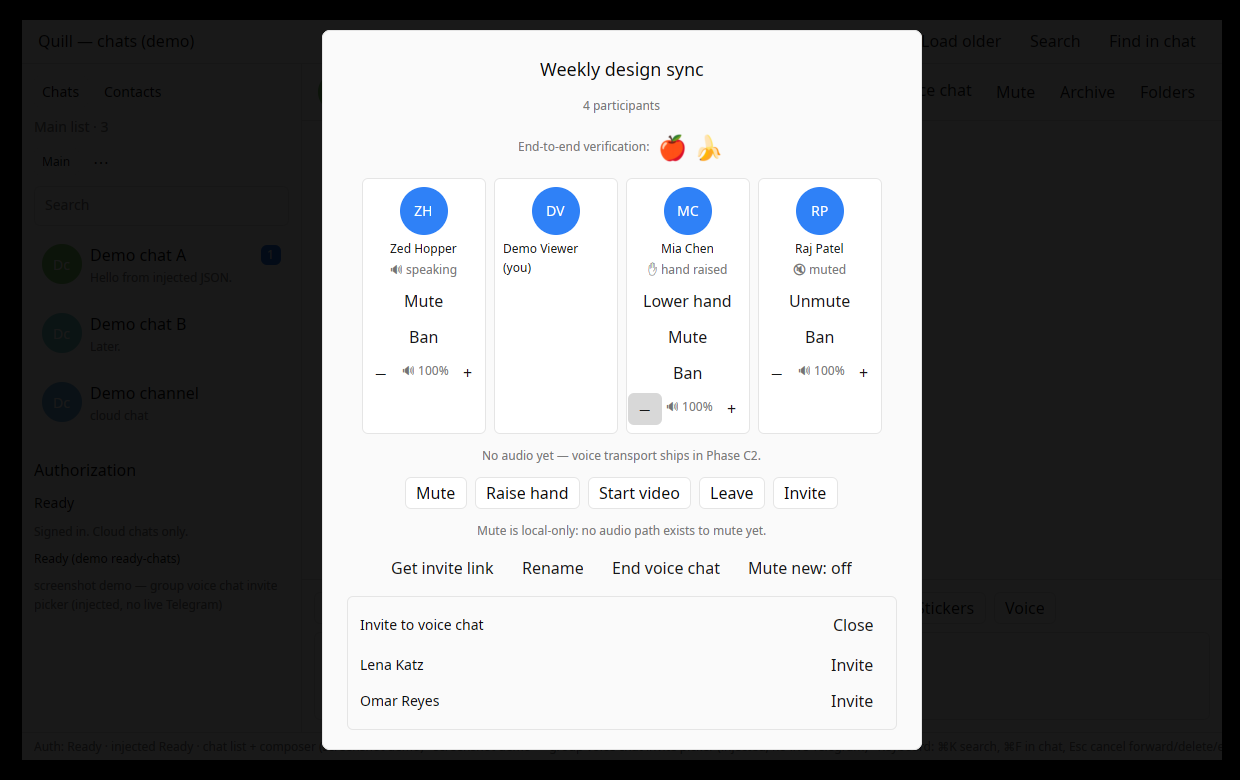
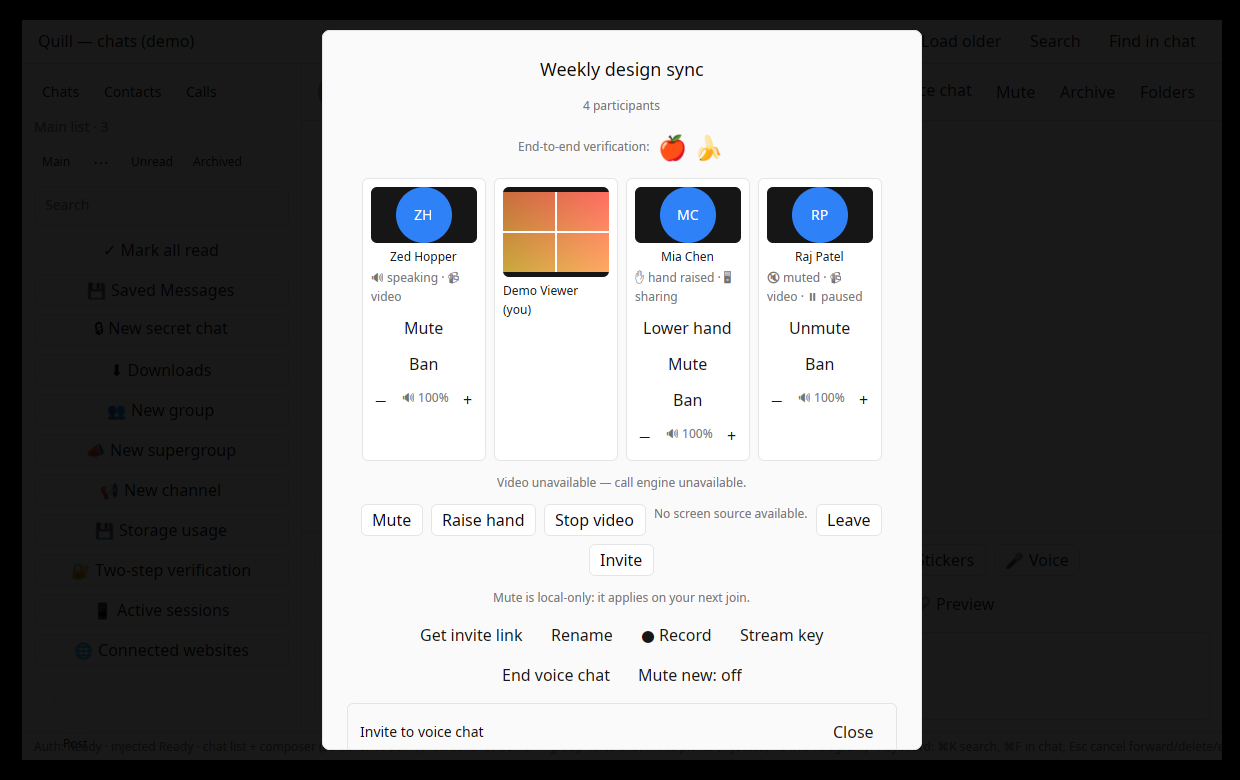
calls-group-self-tile: local camera self tile in group calls
Engine: frames_trampoline group branch now delivers CAPTURE+CAMERA
frames as is_local (was: dropped) — ntgcalls v3.0.0 emits capture
frames per connection (ntgcalls.cpp:126; stream_manager emits device
captures to the callback), so the local preview was always available.

Driver: no routing change (participant-less frames already land in
(call id, is_local) slots); teardown_group_call_transport and the
pump backstop now clear those slots on group-call end.

UI: group_self_tile_content renders the self participant's tile —
live preview when is_my_video_enabled + frame retained, 'Starting
camera...' when enabled without a frame, initials avatar when off;
self tile shows the local is_muted_self mute badge.

Tests: group_local_frame_routes_to_shared_local_slot,
group_call_leave_clears_local_frame_slot. Demo fixture camera on +
demo_local_frame; screenshots regenerated.

README: parity:calls-group-video-self checked (code + demo only,
live unverified).

diff --git a/src/ui/mod.rs b/src/ui/mod.rs
@@ -4893,6 +4893,9 @@ impl QuillApp {
                 // the demo tiles (camera for Zed, screen share for Mia).
                 // Injected demo data, not real media.
                 app.demo_group_frames = demo_group_video_frames();
+                // Slice calls-group-self-tile: the self tile renders the
+                // local camera preview (fixture camera is on).
+                app.demo_local_frame = Some(demo_video_frame(true));
             }
             app.status_note =
                 "screenshot demo — group voice chat (injected, no live Telegram)".into();
@@ -4901,6 +4904,9 @@ impl QuillApp {
             if let Some(session) = app.demo_session.as_mut() {
                 app.demo_seq.store(session.last_seq, Ordering::SeqCst);
                 apply_ready_group_call_invite(session, &app.demo_sink, &app.demo_seq);
+                // Slice calls-group-self-tile: fixture camera is on —
+                // the self tile behind the panel renders the preview.
+                app.demo_local_frame = Some(demo_video_frame(true));
             }
             app.group_call_invite_open = true;
             app.status_note =
@@ -22788,7 +22794,13 @@ impl QuillApp {
         if participant.is_speaking {
             badges.push("🔊 speaking".to_string());
         }
-        if participant.is_muted_for_all_users || participant.is_muted_for_current_user {
+        if participant.is_muted_for_all_users
+            || participant.is_muted_for_current_user
+            || (participant.is_current_user && call.is_muted_self)
+        {
+            // Slice calls-group-self-tile: the self tile shows the LOCAL
+            // mute state (`is_muted_self`), which the participant flags
+            // alone don't reliably carry for the current user.
             badges.push("🔇 muted".to_string());
         }
         if participant.is_hand_raised {
@@ -22812,19 +22824,25 @@ impl QuillApp {
         }
         // Phase C2g: live video tile when a frame is retained for this
         // participant (camera, or screen share preferred when sharing);
-        // the avatar placeholder stays for everyone else.
-        let video_or_avatar: AnyElement = match self.group_participant_frame(call.id, participant) {
-            Some((user_id, screen, frame)) => {
-                match self.cached_group_video_image(call.id, user_id, screen, &frame) {
-                    Some(image) => img(ImageSource::from(image))
-                        .w_full()
-                        .h(px(90.))
-                        .object_fit(ObjectFit::Contain)
-                        .into_any_element(),
-                    None => div().child(initials_avatar(&name, 56.)).into_any_element(),
+        // the avatar placeholder stays for everyone else. Slice
+        // calls-group-self-tile: the current user's tile renders the
+        // local camera preview from the driver's group-local slot.
+        let video_or_avatar: AnyElement = if participant.is_current_user {
+            self.group_self_tile_content(call, participant, &name)
+        } else {
+            match self.group_participant_frame(call.id, participant) {
+                Some((user_id, screen, frame)) => {
+                    match self.cached_group_video_image(call.id, user_id, screen, &frame) {
+                        Some(image) => img(ImageSource::from(image))
+                            .w_full()
+                            .h(px(90.))
+                            .object_fit(ObjectFit::Contain)
+                            .into_any_element(),
+                        None => div().child(initials_avatar(&name, 56.)).into_any_element(),
+                    }
                 }
+                None => div().child(initials_avatar(&name, 56.)).into_any_element(),
             }
-            None => div().child(initials_avatar(&name, 56.)).into_any_element(),
         };
         let mut tile = div()
             .w(px(124.))
@@ -22957,6 +22975,57 @@ impl QuillApp {
             );
         }
         tile
+    }
+
+    /// Slice calls-group-self-tile: the current user's tile content in
+    /// the group grid. Camera on + a retained local frame → the live
+    /// local preview (decoded through the same per-participant cache as
+    /// the remote tiles); camera on with no frame yet → "Starting
+    /// camera…"; camera off → the initials avatar, consistent with every
+    /// other tile. Live mode reads the driver's group-local slot (the
+    /// engine delivers group CAPTURE frames as `is_local` with no
+    /// participant); demo mode reuses the 1:1 local fixture frame.
+    fn group_self_tile_content(
+        &mut self,
+        call: &ActiveGroupCall,
+        participant: &ParsedGroupCallParticipant,
+        name: &str,
+    ) -> AnyElement {
+        let frame = if let Some(live) = self.live.as_ref() {
+            live.driver.latest_video_frame(call.id, true)
+        } else {
+            self.demo_local_frame.clone()
+        };
+        let MessageSender::User { user_id } = participant.participant_id else {
+            return div().child(initials_avatar(name, 56.)).into_any_element();
+        };
+        match (call.is_my_video_enabled, frame.as_ref()) {
+            (true, Some(frame)) => {
+                match self.cached_group_video_image(call.id, user_id, false, frame) {
+                    Some(image) => img(ImageSource::from(image))
+                        .w_full()
+                        .h(px(90.))
+                        .object_fit(ObjectFit::Contain)
+                        .into_any_element(),
+                    None => div().child(initials_avatar(name, 56.)).into_any_element(),
+                }
+            }
+            (true, None) => div()
+                .flex()
+                .flex_col()
+                .items_center()
+                .justify_center()
+                .gap_1()
+                .child(div().text_2xl().child("📹"))
+                .child(
+                    div()
+                        .text_xs()
+                        .text_color(rgb(0x9a9a9a))
+                        .child("Starting camera…"),
+                )
+                .into_any_element(),
+            (false, _) => div().child(initials_avatar(name, 56.)).into_any_element(),
+        }
     }
 
     fn group_call_card(
@@ -39090,7 +39159,7 @@ fn apply_ready_group_call(session: &mut Session, sink: &Arc<MemorySink>, seq: &A
             r#"{{"@type":"updateChatVideoChat","chat_id":{chat_id},"video_chat":{{"@type":"videoChat","group_call_id":{call_id},"has_participants":true,"default_participant_id":null}}}}"#
         ),
         format!(
-            r#"{{"@type":"updateGroupCall","group_call":{{"@type":"groupCall","id":{call_id},"unique_id":"999","title":"Weekly design sync","invite_link":"","paid_message_star_count":0,"scheduled_start_date":0,"enabled_start_notification":false,"is_active":true,"is_video_chat":true,"is_live_story":false,"is_rtmp_stream":false,"is_joined":true,"need_rejoin":false,"is_owned":true,"can_be_managed":true,"participant_count":4,"has_hidden_listeners":false,"loaded_all_participants":true,"message_sender_id":null,"recent_speakers":[{{"@type":"groupCallRecentSpeaker","participant_id":{{"@type":"messageSenderUser","user_id":41}},"is_speaking":true}}],"is_my_video_enabled":false,"is_my_video_paused":false,"can_enable_video":true,"mute_new_participants":false,"can_toggle_mute_new_participants":true,"can_send_messages":true,"are_messages_allowed":true,"can_toggle_are_messages_allowed":false,"can_delete_messages":false,"record_duration":0,"is_video_recorded":false,"duration":0}}}}"#
+            r#"{{"@type":"updateGroupCall","group_call":{{"@type":"groupCall","id":{call_id},"unique_id":"999","title":"Weekly design sync","invite_link":"","paid_message_star_count":0,"scheduled_start_date":0,"enabled_start_notification":false,"is_active":true,"is_video_chat":true,"is_live_story":false,"is_rtmp_stream":false,"is_joined":true,"need_rejoin":false,"is_owned":true,"can_be_managed":true,"participant_count":4,"has_hidden_listeners":false,"loaded_all_participants":true,"message_sender_id":null,"recent_speakers":[{{"@type":"groupCallRecentSpeaker","participant_id":{{"@type":"messageSenderUser","user_id":41}},"is_speaking":true}}],"is_my_video_enabled":true,"is_my_video_paused":false,"can_enable_video":true,"mute_new_participants":false,"can_toggle_mute_new_participants":true,"can_send_messages":true,"are_messages_allowed":true,"can_toggle_are_messages_allowed":false,"can_delete_messages":false,"record_duration":0,"is_video_recorded":false,"duration":0}}}}"#
         ),
         participant(777, r#","is_current_user":true"#, "a4", "null", "null"),
         participant(

diff --git a/src/connect.rs b/src/connect.rs
@@ -1594,6 +1594,13 @@ impl<S: JsonSender> ConnectDriver<S> {
                 .lock()
                 .expect("group video frame slots")
                 .retain(|(slot_call_id, _, _), _| *slot_call_id != before_id);
+            // Slice calls-group-self-tile: the self tile lives in the
+            // shared (call id, is_local) slots — clear it too so a stale
+            // local preview can't render after the call ends.
+            self.video_frame_slots
+                .lock()
+                .expect("call video frame slots")
+                .retain(|(slot_call_id, _), _| *slot_call_id != before_id);
             self.group_camera_state.remove(&before_id);
         }
         let Some(group_call_id) = active_group_call_after else {
@@ -3374,6 +3381,12 @@ impl<S: JsonSender> ConnectDriver<S> {
             .lock()
             .expect("group video frame slots")
             .retain(|(slot_call_id, _, _), _| *slot_call_id != group_call_id);
+        // Slice calls-group-self-tile: the self tile lives in the
+        // shared (call id, is_local) slots — clear it too.
+        self.video_frame_slots
+            .lock()
+            .expect("call video frame slots")
+            .retain(|(slot_call_id, _), _| *slot_call_id != group_call_id);
         self.group_camera_state.remove(&group_call_id);
     }
 
@@ -20990,6 +21003,54 @@ mod tests {
         assert!(driver.latest_group_video_frame(555, 42, true).is_some());
         assert!(driver.latest_group_video_frame(555, 43, false).is_none());
         assert!(driver.latest_video_frame(555, false).is_none());
+        let _ = std::fs::remove_dir_all(&dir);
+    }
+
+    /// Slice calls-group-self-tile: a group-local frame (`is_local`,
+    /// no participant — what the engine now delivers for group
+    /// CAPTURE frames) lands in the shared (call id, is_local) slots,
+    /// never in the participant slots.
+    #[test]
+    fn group_local_frame_routes_to_shared_local_slot() {
+        let (dir, driver, _recorder, handle, _sink, _seq) = ready_group_call_driver();
+        handle.emit_video_frame(
+            555,
+            VideoFrame {
+                seq: 0,
+                width: 2,
+                height: 2,
+                rgba: vec![0u8; 16],
+                is_local: true,
+                participant_user_id: None,
+                is_screen: false,
+            },
+        );
+        assert!(driver.latest_video_frame(555, true).is_some());
+        assert!(driver.latest_video_frame(555, false).is_none());
+        assert!(driver.latest_group_video_frame(555, 42, false).is_none());
+        let _ = std::fs::remove_dir_all(&dir);
+    }
+
+    /// Slice calls-group-self-tile: leaving the group call clears the
+    /// self-tile slot along with the participant slots.
+    #[test]
+    fn group_call_leave_clears_local_frame_slot() {
+        let (dir, mut driver, _recorder, handle, _sink, _seq) = ready_group_call_driver();
+        handle.emit_video_frame(
+            555,
+            VideoFrame {
+                seq: 0,
+                width: 2,
+                height: 2,
+                rgba: vec![0u8; 16],
+                is_local: true,
+                participant_user_id: None,
+                is_screen: false,
+            },
+        );
+        assert!(driver.latest_video_frame(555, true).is_some());
+        driver.leave_group_call().expect("leave");
+        assert!(driver.latest_video_frame(555, true).is_none());
         let _ = std::fs::remove_dir_all(&dir);
     }
 

diff --git a/src/calls/engine.rs b/src/calls/engine.rs
@@ -2282,25 +2282,36 @@ unsafe extern "C" fn frames_trampoline(
         .copied()
     {
         // Screen frames arrive as PLAYBACK+SCREEN; camera as
-        // PLAYBACK+CAMERA.
-        let is_screen = device == NTG_STREAM_DEVICE_SCREEN;
-        if mode != NTG_STREAM_MODE_PLAYBACK || (!is_screen && device != NTG_STREAM_DEVICE_CAMERA) {
-            // Group capture (local preview) has no tile yet; drop rather
-            // than misattribute.
-            return;
+        // PLAYBACK+CAMERA. Slice calls-group-self-tile: the local
+        // camera preview arrives as CAPTURE+CAMERA keyed by the chat id
+        // (ntgcalls emits capture frames per connection — v3.0.0
+        // ntgcalls.cpp:126 wires on_frames for group connections too,
+        // and stream_manager emits device captures to the callback);
+        // it renders as the self tile instead of being dropped.
+        if mode == NTG_STREAM_MODE_CAPTURE && device == NTG_STREAM_DEVICE_CAMERA {
+            (group_call_id, None, true, false)
+        } else {
+            let is_screen = device == NTG_STREAM_DEVICE_SCREEN;
+            if mode != NTG_STREAM_MODE_PLAYBACK
+                || (!is_screen && device != NTG_STREAM_DEVICE_CAMERA)
+            {
+                // Screen-share capture preview has no tile yet; drop
+                // rather than misattribute.
+                return;
+            }
+            // SAFETY: frames_len > 0 was checked above.
+            let ssrc = unsafe { &*frames.add(frames_len - 1) }.ssrc as u32;
+            let Some(participant) = shared
+                .group_video_ssrc_to_user
+                .lock()
+                .expect("ntgcalls group ssrc map")
+                .get(&(user_id, ssrc))
+                .copied()
+            else {
+                return;
+            };
+            (group_call_id, Some(participant), false, is_screen)
         }
-        // SAFETY: frames_len > 0 was checked above.
-        let ssrc = unsafe { &*frames.add(frames_len - 1) }.ssrc as u32;
-        let Some(participant) = shared
-            .group_video_ssrc_to_user
-            .lock()
-            .expect("ntgcalls group ssrc map")
-            .get(&(user_id, ssrc))
-            .copied()
-        else {
-            return;
-        };
-        (group_call_id, Some(participant), false, is_screen)
     } else {
         let is_local = mode == NTG_STREAM_MODE_CAPTURE && device == NTG_STREAM_DEVICE_CAMERA;
         if !is_local && !(mode == NTG_STREAM_MODE_PLAYBACK && device == NTG_STREAM_DEVICE_CAMERA) {

diff --git a/DECISIONS.md b/DECISIONS.md
@@ -5419,3 +5419,27 @@ ntgcalls v3.0.0 prebuilt lib, bindings verified against
   correct timing only — the demo paints fine on a fresh Xvfb display
   with the lavapipe ICD (earlier black frames were captures taken
   after the demo's 5s quit timer).
+
+## Slice calls-group-self-tile — LOCAL CAMERA SELF TILE IN GROUP CALLS (2026-09-28)
+
+- **Schema (pinned TDLib 1.8.67, `schema/td_api.tl`, verified verbatim):**
+  - `groupCall.is_my_video_enabled` (`schema/td_api.tl:7154`, documented :7142 "True, if the current user's video is enabled"): the local truth for whether the self tile shows the live preview. `toggleGroupCallIsMyVideoPaused` / the join params drive it; the slice reads it, never fabricates it.
+  - `groupCallParticipant.is_current_user` (`schema/td_api.tl:7184`) marks the self participant in the roster; the self tile is that participant's grid tile, not a separate overlay.
+- **ntgcalls v3.0.0 (upstream source, tag v3.0.0, concept-level — not a single-name grep):**
+  - `ntgcalls/src/ntgcalls.cpp:126` — `NTgCalls::create` wires `on_frames` per connection keyed by `chat_id` for ALL connection types: `(void) frames_callback_(chat_id, mode, device, frames);`. Group calls are connections keyed by chat id, so group capture frames reach the C `ntg_on_frames_callback` exactly like P2P ones.
+  - `ntgcalls/src/media/stream_manager.cpp` `setup_capture_callbacks` — camera reader frames emit to the frames callback with mode=CAPTURE when `stream_type == Video && is_shared`, where `is_shared = desc.media_source == MediaSource::Device` (:469). Quill's `issue_group_sources` issues the group camera as `NTG_MEDIA_SOURCE_DEVICE` + `NTG_STREAM_MODE_CAPTURE`, so the local preview arrives as CAPTURE+CAMERA keyed by the group chat id.
+  - This closes the old README partial honestly: the frames were never missing — the trampoline deliberately dropped them ("no tile yet"). The slice stops dropping and delivers them as `is_local=true, participant_user_id=None`.
+- **Reference-client evidence (TGX first):** TGX (`~/workspace/telegram-x`, this checkout) has no group video-call tile grid — `groupCallParticipantVideoInfo` appears only in the generated TDLib bindings, no video-grid UI exists to compare against. Nothing to mirror or contradict; the tile follows Quill's own existing tile style (124px tile, 90px video area, initials avatar, badge row) and the 1:1 PiP's local-preview states.
+- **Built:**
+  - Engine (`src/calls/engine.rs`, `frames_trampoline`): group-branch CAPTURE+CAMERA frames now deliver `(group_call_id, None, is_local=true, false)` instead of being dropped. CAPTURE+SCREEN (local screen-share preview) still drops — no tile for it yet (honest: screen-share slice is separate).
+  - Driver (`src/connect.rs`): no routing change — the existing frame callback already routes `participant_user_id=None` frames into the `(call_id, is_local)` slots, so the group-local frame lands at `(group_call_id, true)`. `pump_group_call_transport` now also clears those slots when the group call ends (stale local previews can't render after leave).
+  - UI (`src/ui/mod.rs`): `group_self_tile_content` — the current-user participant's tile renders the local preview when `is_my_video_enabled` and a frame is retained (decoded via the existing per-participant `cached_group_video_image` cache), "Starting camera…" when enabled with no frame yet, the initials avatar when the camera is off. The self tile also shows the "🔇 muted" badge from the local `is_muted_self` flag (folded into the existing muted-badge condition so it can't double up).
+  - Demo fixture: `apply_ready_group_call` now has `is_my_video_enabled:true` and the ReadyGroupCall demo sets `demo_local_frame` (warm-gradient crosshair frame) — `docs/screenshots/ready-group-call.png` shows the live self tile.
+  - Tests: `group_local_frame_routes_to_shared_local_slot` (routing), `group_call_leave_clears_local_frame_slot` (cleanup).
+- **Key decisions (ponytail):**
+  - Reused the `(call_id, is_local)` slots and the existing tile/cache/badge machinery — no new slot map, no new VideoFrame field, no identity plumbing into the engine.
+  - Known edge (documented, not engineered): 1:1 call ids and group call ids share the i32 key space of those slots. A simultaneous live 1:1 call and group call with numerically equal ids would cross-read the local slot — but both frames depict the same local camera, and slots clear on call end. Not worth a second map.
+  - The self tile is the existing current-user grid tile, not a PiP overlay — matches how the roster already renders "(you)".
+- **Out of this slice (left unchecked with evidence):**
+  - Live (non-demo) verification: no ntgcalls runtime on this VM — the engine→UI path is code + mock-tested + demo-screenshotted only, same caveat as the sibling call items.
+  - Local screen-share preview tile in group calls (CAPTURE+SCREEN still dropped at the trampoline).

diff --git a/README.md b/README.md
@@ -397,7 +397,7 @@ A weekly `telegram-update-watch` scheduled job keeps this checklist current with
 - [ ] Group video tiles show live video (partial: engine→tile path implemented + mock-tested + demo screenshot; live group call never exercised — no ntgcalls runtime on this VM) <!-- parity:calls-video-tiles -->
 - [ ] Share screen in a group call (partial: startGroupCallScreenSharing/endGroupCallScreenSharing + native presentation handshake implemented; screen-source availability gate added; native screen source unverified — no ntgcalls runtime on this VM) <!-- parity:calls-group-screen-share -->
 - [x] Group video paused indicator ("paused" badge on tiles when `video_info.is_paused`; code + demo only, live unverified) <!-- parity:calls-group-video-pause -->
-- [ ] Local camera preview tile in group calls (partial: remote tiles render; local capture frames are dropped at the native callback, so the self tile stays an avatar) <!-- parity:calls-group-video-self -->
+- [x] Local camera preview tile in group calls (engine delivers group CAPTURE frames as the local frame; self tile in the participant grid with live preview, avatar when camera off, local mute badge; code + demo only, live unverified) <!-- parity:calls-group-video-self -->
 - [x] Auto-rejoin group call after network loss (auto-rejoin on `need_rejoin`, max 3 attempts, manual retry resets) <!-- parity:calls-rejoin -->
 - [x] Record group call (`startGroupCallRecording` video / `endGroupCallRecording`, `can_be_managed`-gated; REC indicator with duration; code + demo only, live recording unverified) <!-- parity:calls-recording -->
 - [x] RTMP stream key for video chat (`getVideoChatRtmpUrl` / `replaceVideoChatRtmpUrl`, fetch admin-gated, regenerate owner-gated; code + demo only, live unverified) <!-- parity:calls-rtmp -->
